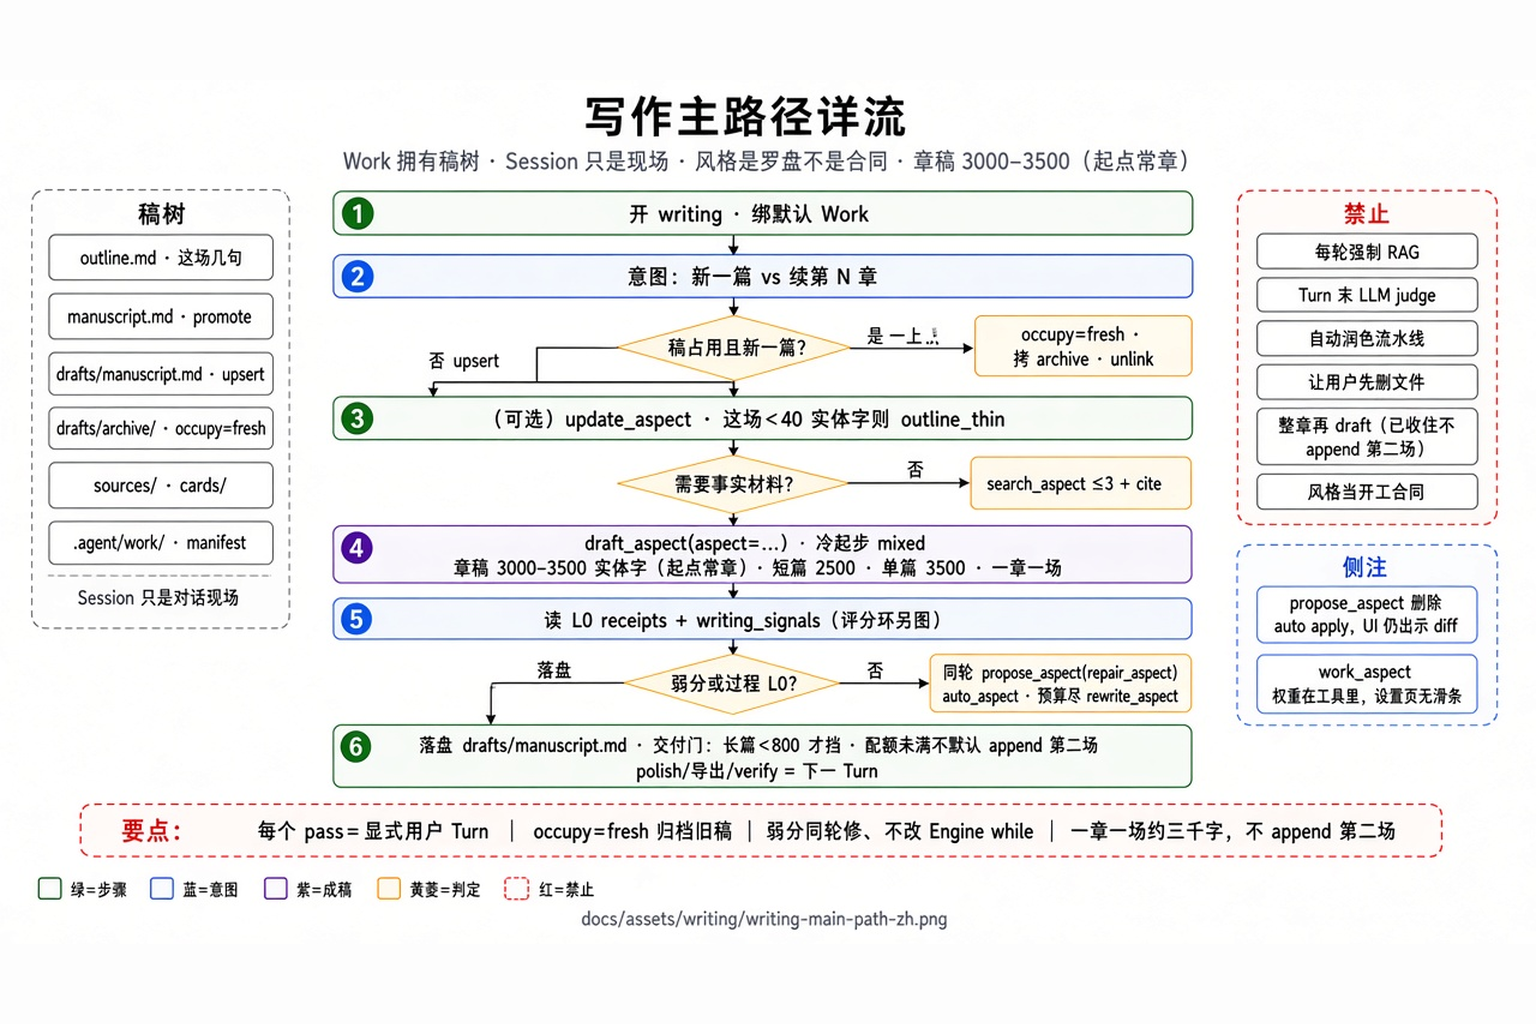
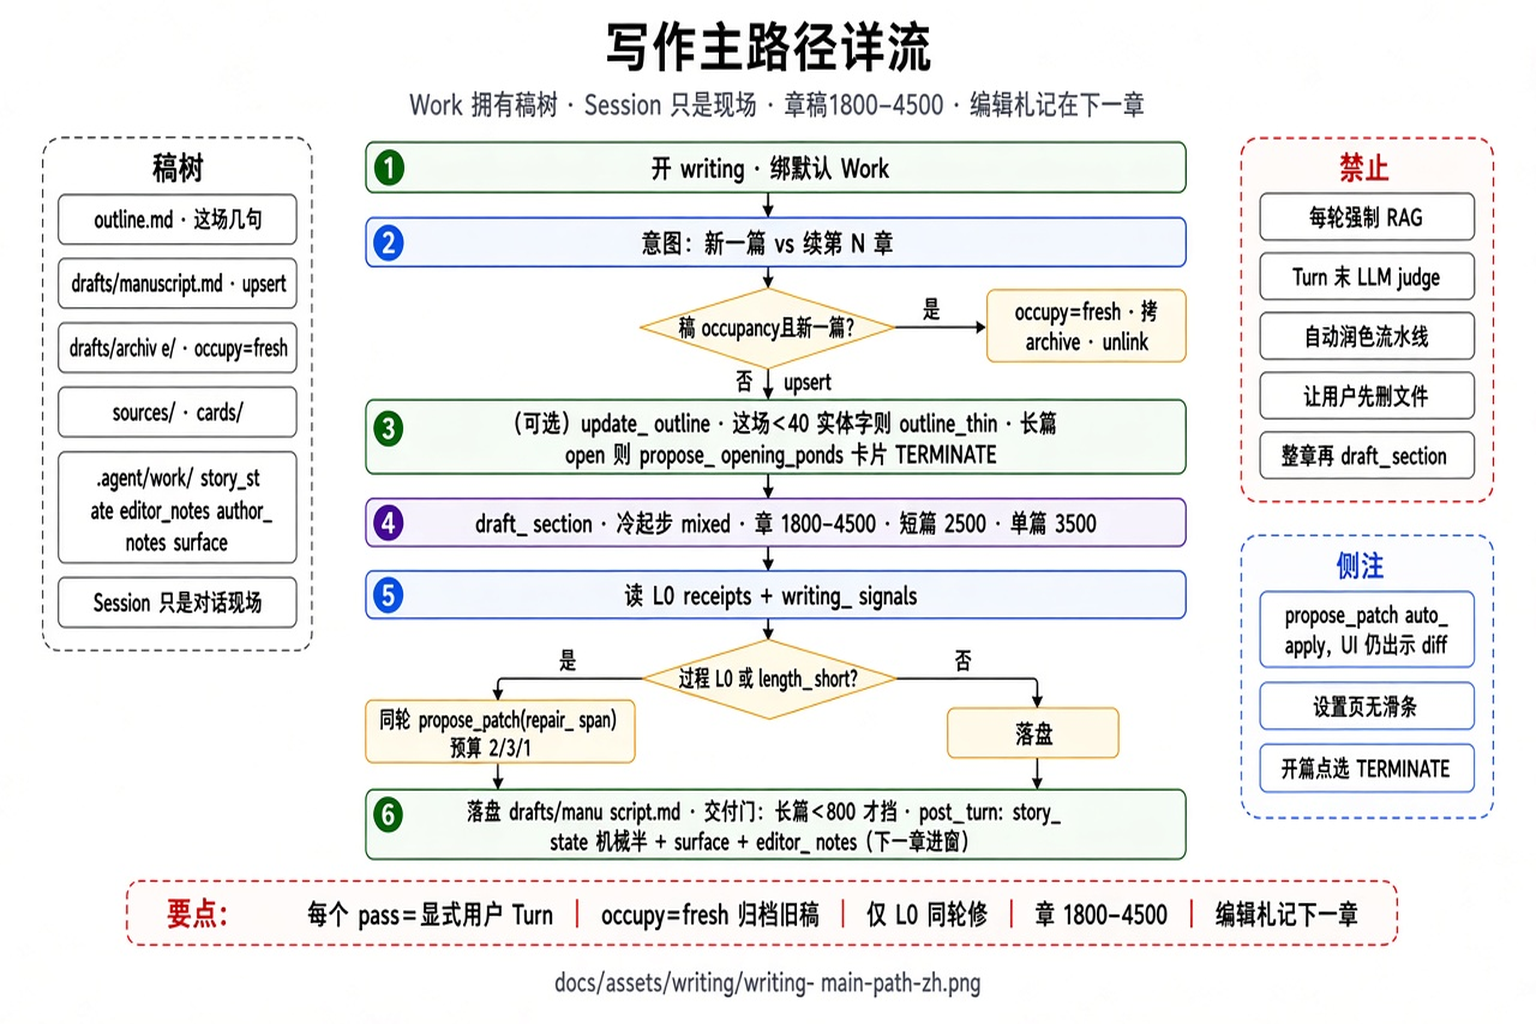
Align writing tour and module docs with the subtracted scoring loop.
Numbers and copy now match L0-only repair, 1800–4500 chapters, and observe-only surface; the two control-flow diagrams are redrawn to the same main-chain skin.

Changed region(s): [[0.0312, 0.0, 0.9688, 0.9688]]

diff --git a/docs/tour/pages/writing.html b/docs/tour/pages/writing.html
@@ -1,7 +1,7 @@
 <section class="page" data-id="writing" data-group="RAG / 写作" data-title="写作工作台">
         <div class="card">
           <h2>写作：Work 拥有树；新一篇归档旧稿</h2>
-          <p class="lede">用户心智是一份稿。工程上 Work 拥有稿树；Session 只是对话线程。场景差在 Profile（<code>writing.yaml</code>：max_steps=40、temperature=0.8、<code>patch_auto_apply=true</code>、<code>attach_writing_signals=true</code>、排除 <code>seed/intel</code>），Engine 不读 scenario 名字。每个 pass = 用户显式 Turn；平台不自动串成润色流水线。</p>
+          <p class="lede">用户心智是一份稿。工程上 Work 拥有稿树；Session 只是对话线程。场景差在 Profile（<code>writing.yaml</code>：max_steps=40、temperature=0.8、<code>patch_auto_apply=true</code>、<code>attach_writing_signals=true</code>、排除 <code>seed/intel</code>），Engine 不读 scenario 名字。每个 pass = 用户显式 Turn；平台不自动串成润色流水线。十块地图与「是否真改稿」见 <a href="#writing-module">写作模块解剖</a>。</p>
           <ul class="seq-legend">
             <li><span class="pt">◆ 要点</span> 设计取舍：漏了会让用户先删文件、把风格当开工合同、或把评分做成 while 新节点</li>
           </ul>
@@ -11,9 +11,9 @@
 drafts/manuscript.md       正在 upsert 的正文
 drafts/archive/            occupy=fresh 时旧稿拷贝处
 sources/                   可被 search_sources 的资料（写作默认排除 seed/intel）
-sources/cards              writing_cards_dir；风格卡 ≤2400 / 人物 ≤1000 / 情节 ≤600 / 一般 ≤400
+sources/cards              writing_cards_dir；风格卡 ≤1800 / 人物 ≤1000 / 情节 ≤600 / 一般 ≤400
                            合计垫底 ≤3600；单卡 ≤2000；走 volatile，不焊进 system
-.agent/work/               元数据 / manifest / patch_budget
+.agent/work/               story_state / editor_notes / author_notes / surface / manifest / patch_budget
 工作台可见正文帽 writing_work_surface_max_chars = 6000
 写作 GUI 左侧「作品」：有稿时列出大纲、正文、人物；一键清空整篇（含侧车）。资料库仍是引用材料。
 <span class="pt">◆ 要点  Session compact 不得拆散 Work。切会话 ≠ 换作品根，归档也不该发生在 Session 层。</span></pre>
@@ -29,7 +29,7 @@ sources/cards              writing_cards_dir；风格卡 ≤2400 / 人物 ≤100
 
 2  （可选）update_outline
      短篇/单篇：纲可选，不必订近池身份
-     长篇：几句这场干什么；先写眼前这一池（跟着谁、站在哪、眼下要什么），海先藏着
+     长篇：几句这场干什么；近池身份看 story_state（≥1 条 rising pressure 且 ≥1 条 info_gap），章职不再每章必有
      章正文 &lt; 40 实体文字且用户未要目录 → outline_thin
      用户说「只要目录 / 标题列表」则跳过薄纲门
      通常不检索；卡片进 writing_cards，不进资料向量面
@@ -40,21 +40,22 @@ sources/cards              writing_cards_dir；风格卡 ≤2400 / 人物 ≤100
      按需 search_sources（cite；每 Turn ≤3；超限拒绝本次调用）
      禁止每轮强制 RAG、禁止 Turn 末自动 judge
      篇幅：用户点名 N 字优先；否则
-       短篇目标 2500 · 单篇目标 3500 · 章稿默认 3000–3500（DEFAULT_CHAPTER_MIN/MAX，起点常章）
-       实体文字 = 不含空白；不足约定 85% → length_short
+       短篇目标 2500 · 单篇目标 3500 · 长篇章稿 1800–4500（DEFAULT_CHAPTER_MIN/MAX）
+       实体文字 = 不含空白；<1500 或用户点名字数不足 85% → length_short
      返回值带 L0 receipts + L1 writing_signals
      过程 L0 未清：短篇/单篇不得 mode=append，也不得宣称已完成（writing_delivery_hold）
      长篇：本章几乎没写（<800 字）才挡落盘；L0 / 配额未满不挡「第一章写完了」；配额未满不要默认 append 第二场
      长篇加厚：L0 仍挂在 tool_result，但不挡 mode=append
 
-4  弱分或 L0 → 同轮 propose_patch(repair_span)
+4  过程 L0 或 length_short → 同轮 propose_patch(repair_span)
      写作场景 patch_auto_apply=true，仍须 UI 出示 diff
-     只换检测岛里的 old_text（可带 neighbor）；碎拍取最密岛，不把最弱评分窗升成整窗
-     同岛停（对上一次已生效的岛 overlap ≥12）；下一岛仍 propose_patch；每 penalty key 5 次 / 章合计 8
-     无差或岛未碰 → 不计次数；小岛尽才 rewrite_window（每章 2，≤160 实体字）
+     只换检测岛里的 old_text；碎拍取最密岛，不把最弱评分窗升成整窗
+     net 低只观测，不出 span。编辑札记在下一章
+     同岛停（对上一次已生效的岛 overlap ≥12）；下一岛仍 propose_patch；每 penalty key 2 次 / 章合计 3
+     无差或岛未碰 → 不计次数；小岛尽才 rewrite_window（每章 1，≤160 实体字）
      宽窗 / rewrite 尽 → 停修（长篇本章可交）
      连续 apply miss 2 次停
-     net_signal ≥ 0 且无过程 L0 → patch_unnecessary
+     默认不附平台 neighbor；碎拍且有本书 beat 时才附
      不整章再 draft_section（length_short 加厚除外）
      hygiene 拒绝对白改旁白
      <span class="pt">◆ 要点  修补焊在 tool_result，不改 Engine while。做成「自动再跑一轮润色」会把 pass 变成隐式流水线。</span>
@@ -69,17 +70,17 @@ sources/cards              writing_cards_dir；风格卡 ≤2400 / 人物 ≤100
           <pre class="seq">build_writing_spec_block → volatile_context，不进 system 提示（prefix cache）
   book_scope  short|single|long     「写一篇」优先于题材词；可在 writing_prefs.json 钉死
   work_mode   经典文学 / 连载网文    权重与金标库钉在工具里，设置页无滑条
-  fragment    评分切片，不是本章必须交的工种
+  fragment    评分切片，不是章职
   focus / 这一场 / outline_phase     short/single=`ready` · 长篇未立定近池=`open`（propose_opening_ponds 卡片，点选或「我要其他的」） · 已立=`continue`
   无纲时写「新篇另起人与事」
 <span class="pt">◆ 要点  风格是罗盘不是合同。只给题材或说「看看」时先交 start_kind 不同的近池卡片；换职业地点不算分开。</span></pre>
-          <p class="figure-lead">下图中主链：意图 → 占用判定 → 薄纲 → 成稿（章稿 3000–3500，一章一场）→ 同轮修补 / 交付门。检索是按需旁路。评分环见下一页。</p>
-          <div class="src"><code>writing/occupy.py</code> · <code>writing/book_scope.py</code> · <code>writing/text_metrics.py</code> · <code>writing/patch_budget.py</code> · <code>scenarios/profiles/writing.yaml</code></div>
+          <p class="figure-lead">下图中主链：意图 → 占用判定 → 薄纲 / 开篇点选 → 成稿（章稿 1800–4500）→ 仅 L0 同轮修补 / 交付门。检索是按需旁路。评分环见下一页。</p>
+          <div class="src"><code>writing/occupy.py</code> · <code>writing/book_scope.py</code> · <code>writing/text_metrics.py</code> · <code>writing/patch_budget.py</code> · <code>writing/story_state.py</code> · <code>scenarios/profiles/writing.yaml</code></div>
         </div>
                                         <figure class="figure">
           <div class="diagram-body diagram-svg">
             <img src="../assets/writing/writing-main-path-zh.png" alt="写作主路径" />
           </div>
-          <figcaption>写作主路径 · 章稿 3000–3500 · 点击放大</figcaption>
+          <figcaption>写作主路径 · 章稿 1800–4500 · 点击放大</figcaption>
         </figure>
       </section>

diff --git a/docs/tour/pages/writing-module.html b/docs/tour/pages/writing-module.html
@@ -1,0 +1,64 @@
+<section class="page" data-id="writing-module" data-group="RAG / 写作" data-title="写作模块解剖">
+        <div class="card">
+          <h2>写作是十块叠在同一条 Engine 上，不是第二条循环</h2>
+          <p class="lede">用户看见一份稿。工程上：场景壳换工具和提示；稿树挂在 Work；罗盘进 volatile；成稿工具写盘；L0/交付门硬拒；L1 分数只焊在 <code>tool_result</code>，奖励只观测。引擎禁止 <code>if scenario == "writing"</code>。完整文件索引与空转清单见仓库 <code>docs/writing-module.md</code>。主链海报见上一页「写作工作台」；评分环见下一页。</p>
+          <ul class="seq-legend">
+            <li><span class="pt">◆ 要点</span> 设计取舍：漏了会把 L1 当改稿器、把账户偏好表当已接上的滑条、或把 L2 评委送进产品 Turn</li>
+          </ul>
+
+          <h3>十块</h3>
+          <pre class="seq">① 场景壳   writing.yaml · system.md · hooks（cards / focus / continuity）
+② 稿树     outline.md · drafts/manuscript.md · sources/cards · drafts/archive · .agent/work
+③ 罗盘     book_scope × work_mode × fragment × outline_phase × 章职（Writing spec ≤620 字）
+④ 成稿工具 draft_section · update_outline · propose_patch · propose_opening_ponds · export
+⑤ 过程门   L0 四类+篇幅 · 交付门 · patch 预算 2/3/1 · 卫生 · 叙事承诺配额
+⑥ L1 评分  切窗 → 类原型 → net_signal（rewards 只观测）→ 仅 L0 / length_short 出 repair_span
+⑦ 开篇点选 长篇未立定近池：卡片闸；awaiting_choice → TERMINATE
+⑧ 检索特化 排除 seed/intel 与 archive；texture prior 1.4 / 0.35；每 Turn ≤3
+⑨ 工作台   作品面板 / RAG 是否生效 / signals 弹层；一键清空走 discard
+⑩ 作品状态 story_state.json + editor_notes/ + author_notes.md + surface/（硬写 sidecar，软进窗）
+<span class="pt">◆ 要点  外围 L2 narrative 与 Ops /ops/writing 只打分。C0 发散块恒 False。账户 writing_account_prefs 产品无入口、评分不读。</span></pre>
+
+          <h3>影响档（是否真的改产出）</h3>
+          <pre class="seq">硬   不经模型意愿：写盘、拒工具、停转、改摘要、改检索排序、注入 receipt
+     draft_section / occupy=fresh / append 带碎拍拒绝 / 开篇点选停转
+     patch_auto_apply / 交付门改「已完成」/ texture 乘子 / 工具白名单无 write_file
+
+软   进模型窗：system.md · [writing_context]（卡、spec、稿面、已选近池）· tool_result.repair_span
+     模型可以不听，直到撞 max_steps=40。prefix cache：spec 不进 system
+
+旁路 UI / golden 探针 / WritingSignalsModal。事件总线只有 writing_weak 等瘦字段
+
+空转 L2 评委不进 Turn；账户 writing_account_prefs 产品无入口；C0 发散注入已关
+<span class="pt">◆ 要点  L1 net_signal 本身不改稿。仅过程 L0 或 length_short 往 tool_result 塞岛；硬停靠预算与工具拒绝。编辑札记在下一章。</span></pre>
+
+          <h3>接到 Engine 的点（不是新节点）</h3>
+          <pre class="seq">StartTurn     ScenarioRegistry.get(writing) 装工具/温度/hooks
+组窗          volatile 做成 user 消息，前缀 [writing_context]（旁注：不是用户发言）
+tool 完成后   attach_writing_signals → maybe_attach_prose_writing_signals
+              note_writing_signals_for_verify（L0 pending；四类 receipt 互斥一张）
+propose_patch writing 场景自动 apply，失败记 auto_apply_error
+开篇工具      awaiting_choice | stop_retry → termination_reason，return TERMINATE
+Turn 摘要     finalize_writing_turn_summary：【交付门】；compact 剥说明书
+post_turn     continuity pending 卡 + local beats；story_state 机械半 + surface + editor_notes
+<span class="pt">◆ 要点  做成「自动再跑一轮润色」会把用户 pass 变成隐式流水线。每个 pass = 一次显式 Turn。</span></pre>
+
+          <h3>罗盘现行数字（跟代码走）</h3>
+          <pre class="seq">book_scope  short 目标 2500 · single 3500 · 长篇章稿 1800–4500（&lt;1500 记 length_short）
+            「写一篇」优先于题材词；长篇交付门只挡本章 &lt;800 字，不挡全书没写完
+work_mode   literary 默认 / web_serial；金标分库；学拍不搬核
+fragment    评分切片不是工种；冷起步 mixed；mismatch 对齐申报 &lt; 0.60 才记
+卡片预算    合计 3600 · 单卡 2000 · style 1800 / 人物 1000 / 情节 600 / 一般 400 · story_state 900
+稿面        writing_work_surface_max_chars = 6000；选卡不看本轮 message（C3）
+temperature 0.8 · max_steps 40 · patch 每 key 2 / 章 3 / rewrite_window 1 / miss 连 2 停</pre>
+
+          <h3>稿树（Work 根，不是 Session）</h3>
+          <pre class="seq">用户心智「这本书」= book.py 库存：大纲、正文、卡、拍、归档
+扔掉整本 discard：清用户稿与 .agent/work 侧车；不动 seed、资料库上传、会话
+fresh：wants_new_piece 且 occupied → archive + unlink；不要提示用户先删文件
+空工作区仍用 draft_section / update_outline 建文件；propose_patch 不能建新路径
+<span class="pt">◆ 要点  Session compact 不得拆散 Work。切会话 ≠ 换作品根。</span></pre>
+          <p class="figure-lead">无单独海报：主链在上一页，评分环在下一页。本页只回答「由几块组成、接到哪、哪一档真改稿」。</p>
+          <div class="src"><code>scenarios/profiles/writing.yaml</code> · <code>app/writing/</code> · <code>tools/core/writing_tools.py</code> · <code>docs/writing-module.md</code></div>
+        </div>
+      </section>

diff --git a/docs/tour/index.html b/docs/tour/index.html
@@ -1072,7 +1072,8 @@
         "rag-deep-dive": "图编号逐步对照代码",
         index: "INDEX 13 · 450 / 64",
         writing: "Work 树 · 薄纲 · occupy=fresh",
-        "writing-signals": "L0 过程门 · L1 类原型",
+        "writing-signals": "L0 过程门 · L1 只观测",
+        "writing-module": "十块 · 硬/软/空转",
         "ops-bench": "L1 agent-path，不是 CI",
         "ops-eval-why": "官方题面、可见范围、命中",
         "ops-eval-walk": "本地实例：qrels / Answer: / F2P",
@@ -1091,7 +1092,7 @@
         "scenarios", "tools", "context", "sandbox",
         "coding-fuse", "verify", "issue-repro", "related-tests",
         "events", "contracts",
-        "rag", "rag-deep-dive", "index", "writing", "writing-signals",
+        "rag", "rag-deep-dive", "index", "writing", "writing-module", "writing-signals",
         "ops-bench", "ops-eval-why", "ops-eval-walk", "scorecard",
         "ops-eval-retrieval", "ops-eval-context", "ops-eval-coding",
         "ci-proof", "next",

diff --git a/README.md b/README.md
@@ -22,6 +22,8 @@ https://zodirc.github.io/AgentPlatform/
 | 编码：查找定义、修改后再验证 | https://zodirc.github.io/AgentPlatform/tour/#coding-fuse |
 | 写作 / 资料检索 | https://zodirc.github.io/AgentPlatform/tour/#rag |
 | 工作台（写作对照编码） | https://zodirc.github.io/AgentPlatform/tour/#writing |
+| 写作模块解剖（九块与影响档） | https://zodirc.github.io/AgentPlatform/tour/#writing-module |
+| 写作模块详文 | [docs/writing-module.md](docs/writing-module.md) |
 | 事件如何投影到界面 | https://zodirc.github.io/AgentPlatform/tour/#events |
 | 现行冒烟数字 | https://zodirc.github.io/AgentPlatform/tour/#scorecard |
 | Ops 评测原理（题目 / 命中 / harness） | https://zodirc.github.io/AgentPlatform/tour/#ops-eval-why |

diff --git a/reports/writing-narrative-baseline.md b/reports/writing-narrative-baseline.md
@@ -3,7 +3,7 @@
 生成时间：2026-09-10T03:21:58Z UTC
 来源：Russell et al., StoryScope, COLM 2026, arXiv:2604.03136. Table 16 human/AI means; rarity Appendix H (human 0.71 vs AI 0.49).
 
-本报告是 `docs/writing-quality-uplift-plan.md` §6 提示层改动的准入条件。
+本报告是 `docs/writing-module-uplift.md` §6 提示层改动的准入条件。
 L2 **不进产品 Turn**。LLM 评委只用于离线批处理。
 
 ## 1. 仪器状态
